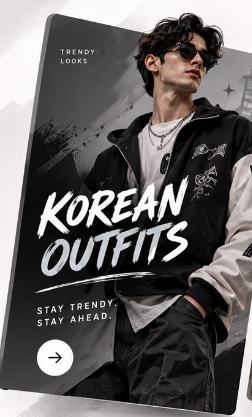
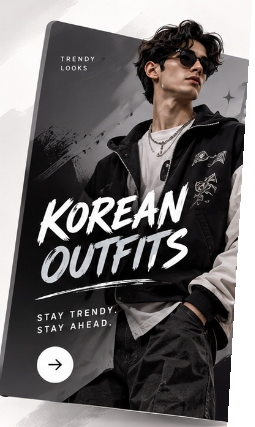
fix: remove card borders and erase all background overlap traces for clean independent panels

diff --git a/index.html b/index.html
@@ -670,14 +670,15 @@
       position: relative;
       flex: 1;
       max-width: 320px;
-      border-radius: 20px;
-      overflow: hidden;
+      border-radius: 0px;
+      overflow: visible;
       cursor: pointer;
-      box-shadow: 0 16px 36px rgba(0, 0, 0, 0.18);
+      box-shadow: none;
+      filter: drop-shadow(0 16px 30px rgba(0, 0, 0, 0.18));
       transition: all 0.4s cubic-bezier(0.16, 1, 0.3, 1);
-      will-change: transform, box-shadow;
-      border: 1px solid rgba(0, 0, 0, 0.08);
-      background: #0d0d0d;
+      will-change: transform, filter;
+      border: none !important; /* Zero borders */
+      background: transparent !important;
     }
 
     /* Subtle Cinematic Tilted Perspective (Matching Image 2 Reference) */
@@ -696,9 +697,9 @@
 
     /* Smooth Hover Lift without any collision or overlap */
     .apparel-overlap-card:hover {
-      transform: perspective(1200px) rotateY(0deg) rotateZ(0deg) translateY(-14px) scale(1.03) !important;
-      box-shadow: 0 28px 56px rgba(0, 0, 0, 0.32);
-      border-color: rgba(0, 0, 0, 0.25);
+      transform: perspective(1200px) rotateY(0deg) rotateZ(0deg) translateY(-16px) scale(1.04) !important;
+      filter: drop-shadow(0 26px 45px rgba(0, 0, 0, 0.30)) !important;
+      border: none !important;
       z-index: 10;
     }
 
